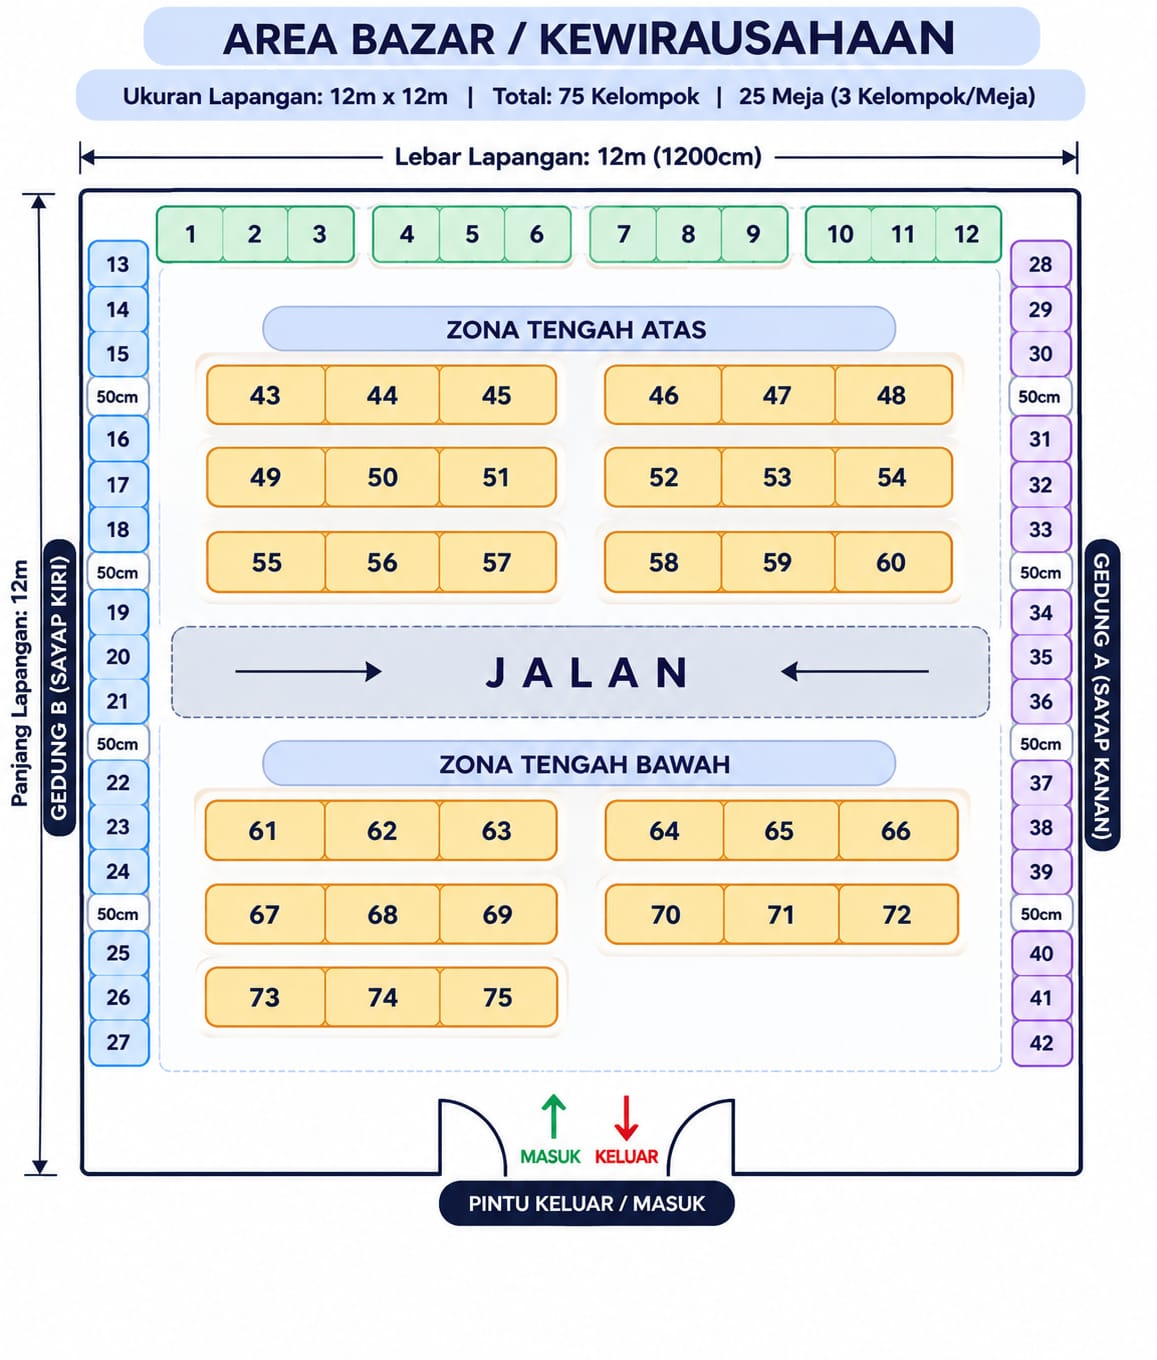
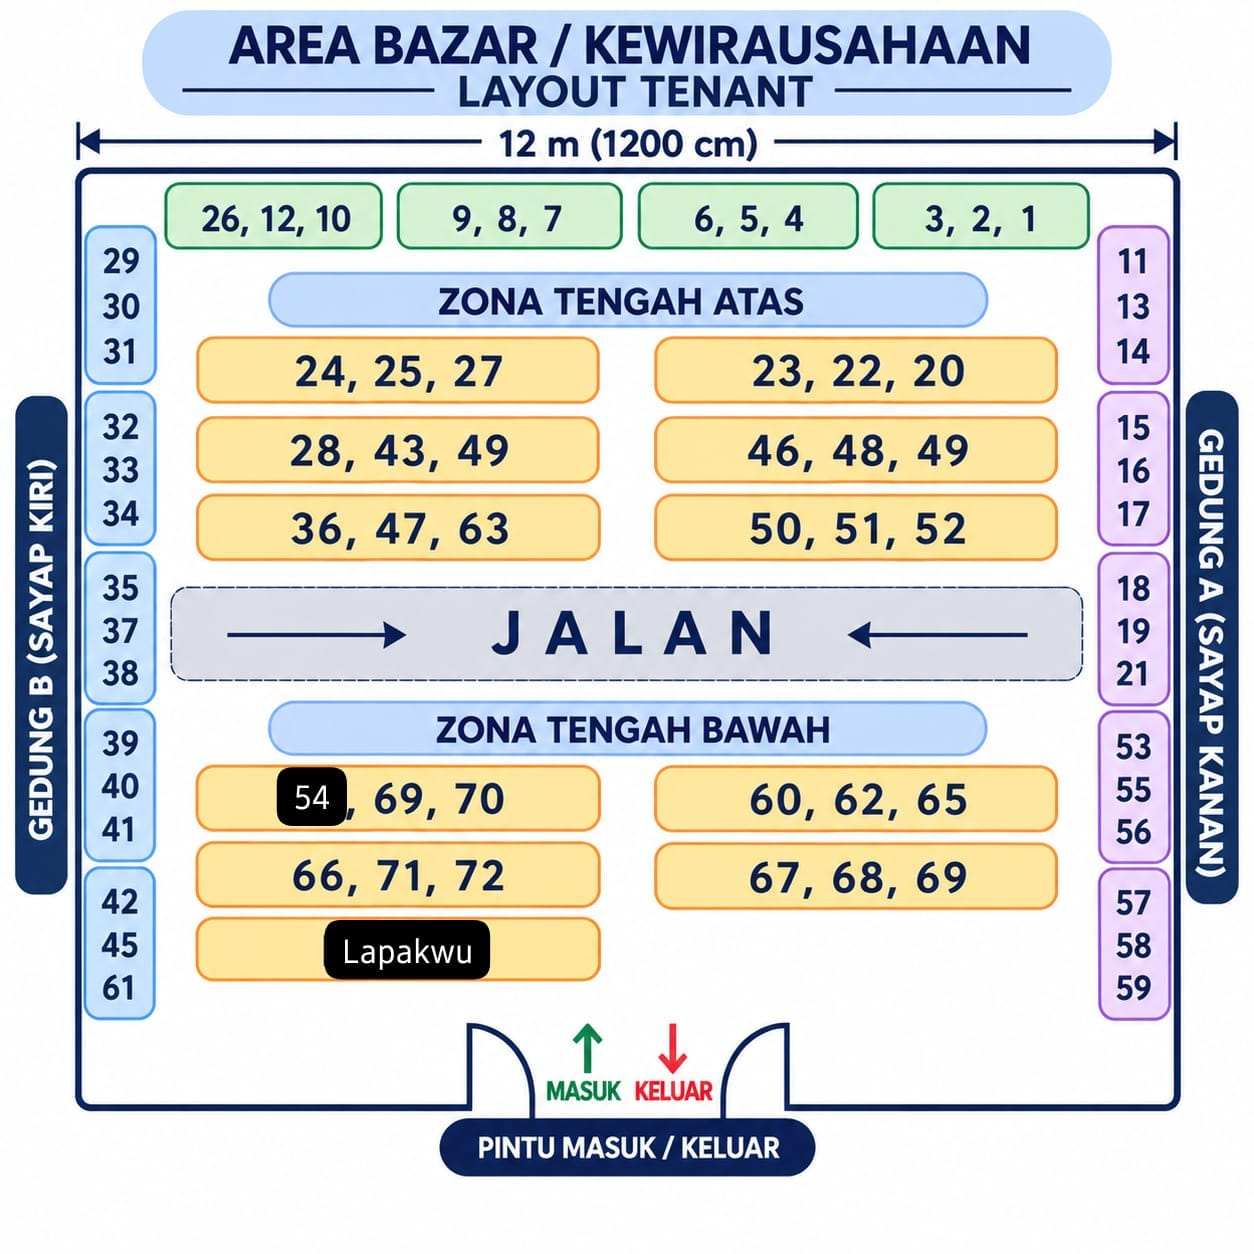
Separate stock adjustments from offline sales and update floor plan

diff --git a/src/app/mitra/page.jsx b/src/app/mitra/page.jsx
@@ -1,5 +1,5 @@
 'use client';
-import { useCallback, useEffect, useState } from 'react';
+import { useCallback, useEffect, useRef, useState } from 'react';
 import Link from 'next/link';
 import dynamic from 'next/dynamic';
 import { list, api, storage, ID, Query, BUCKET, rp, img } from '@/lib/aw';
@@ -34,6 +34,8 @@ export default function Lapak() {
   const [st, setSt] = useState(null);
   const [off, setOff] = useState(null);
   const [edit, setEdit] = useState({});
+  const prosesStok = useRef(false);
+  const [sibukStok, setSibukStok] = useState(false);
   const [layanan, setLayanan] = useState(null);
   const [simpanLayanan, setSimpanLayanan] = useState(false);
 
@@ -119,13 +121,47 @@ export default function Lapak() {
     } catch (er) { setMsg(er.message); }
   };
   const segarkanStat = () => list('rekap_penjualan', [Query.equal('id_mitra', akun.$id)]).then((rk) => setSt((s) => s && ({ ...s, jual: rk.find((x) => x.periode === bln())?.total_penjualan || 0 }))).catch(() => {});
-  // Tap +/−: angka stok berubah langsung di layar, server mencatat stok dan rekap. Gagal -> data dimuat ulang.
-  const ketuk = async (p, aksi) => {
-    if (aksi === 'jual' && p.stok < 1) return setMsg(`Stok ${p.nama} sudah habis.`);
-    setMsg(''); setPs((l) => l.map((x) => (x.$id === p.$id ? { ...x, stok: x.stok + (aksi === 'jual' ? -1 : 1) } : x)));
-    try { await api('/api/stok', { aksi, id: p.$id, jumlah: 1 }); if (aksi === 'jual') segarkanStat(); }
-    catch (e) { setMsg(e.message); muat(); }
+  const ketuk = async (p, aksi, jumlah = 1) => {
+    if (prosesStok.current) return;
+    prosesStok.current = true;
+    setSibukStok(true);
+    setMsg('');
+    try {
+      const { stok } = await api('/api/stok', { aksi, id: p.$id, jumlah });
+      setPs((daftar) => daftar.map((x) => x.$id === p.$id ? { ...x, stok } : x));
+      if (aksi === 'jual') {
+        await segarkanStat();
+        toast(`Penjualan offline ${jumlah} pcs ${p.nama} berhasil dicatat.`);
+      }
+    } catch (e) {
+      setMsg(e.message);
+    } finally {
+      prosesStok.current = false;
+      setSibukStok(false);
+    }
   };
+  const catatPenjualan = (p) => setModalInfo({
+    judul: 'Catat penjualan offline',
+    pesan: `${p.nama} · ${rp(p.harga)} per pcs · Stok tersedia ${p.stok} pcs.`,
+    tipe: 'input',
+    inputType: 'number',
+    inputLabel: 'Jumlah terjual (pcs)',
+    inputDefault: 1,
+    inputMin: 1,
+    inputMax: p.stok,
+    tombolOk: 'Catat penjualan',
+    onOk: async (nilai) => {
+      const jumlah = Number(nilai);
+      if (prosesStok.current || !Number.isSafeInteger(jumlah) || jumlah < 1 || jumlah > p.stok) return;
+      setBusyModal(true);
+      try {
+        await ketuk(p, 'jual', jumlah);
+      } finally {
+        setModalInfo(null);
+        setBusyModal(false);
+      }
+    },
+  });
   const koreksi = async (nama, id, baru) => {
     try { const r = await api('/api/stok', { aksi: 'koreksi', id, baru }); setMsg(`${r.dikembalikan} pcs ${nama} dikembalikan ke stok, rekap ikut dikoreksi.`); setEdit({}); await Promise.all([muat(), muatOff(), segarkanStat()]); }
     catch (e) { setMsg(e.message); }
@@ -326,6 +362,8 @@ export default function Lapak() {
           inputType={modalInfo.inputType}
           inputLabel={modalInfo.inputLabel}
           inputDefault={modalInfo.inputDefault}
+          inputMin={modalInfo.inputMin}
+          inputMax={modalInfo.inputMax}
           kategori={kategori}
           inputOpsional={modalInfo.inputOpsional}
           inputPlaceholder={modalInfo.inputPlaceholder}
@@ -407,6 +445,7 @@ export default function Lapak() {
           {ps?.length > 0 && <div className="field saring-daftar">
             <label htmlFor="cari-produk-mitra">Cari produk lapak</label>
             <input id="cari-produk-mitra" type="search" placeholder="Nama, kategori, atau varian" value={cariProduk} onChange={(e) => setCariProduk(e.target.value)} />
+            <small className="muted">Tombol − dan + hanya mengoreksi stok. Gunakan Catat penjualan offline saat produk terjual di lapak.</small>
           </div>}
           {ps?.length > 0 && !produkCocok.length && <p className="kosong">Produk tidak ditemukan.</p>}
           {produkCocok.map((p) => (
@@ -417,7 +456,8 @@ export default function Lapak() {
                     const harga = hargaAddOn(p, nama);
                     return harga > 0 ? `${nama} (+${rp(harga)})` : nama;
                   }).join(', ')}</small>}</div></div>
-              <div className="row"><span className="qty" role="group" aria-label={`Stok ${p.nama}`}><button className="qb" aria-label={`Kurangi stok ${p.nama} (terjual offline)`} disabled={p.stok < 1} onClick={() => ketuk(p, 'jual')}>−</button><b key={p.stok} className="qn" aria-live="polite">{p.stok}</b><button className="qb add" aria-label={`Tambah stok ${p.nama}`} onClick={() => ketuk(p, 'tambah')}>+</button></span>
+              <div className="row"><span className="qty" role="group" aria-label={`Koreksi stok ${p.nama}`}><button type="button" className="qb" aria-label={`Kurangi stok ${p.nama} tanpa mencatat penjualan`} disabled={sibukStok || p.stok < 1} onClick={() => ketuk(p, 'kurang')}>−</button><b key={p.stok} className="qn" aria-live="polite">{p.stok}</b><button type="button" className="qb add" aria-label={`Tambah stok ${p.nama}`} disabled={sibukStok} onClick={() => ketuk(p, 'tambah')}>+</button></span>
+                <button type="button" className="btn sm out" disabled={sibukStok || p.stok < 1} onClick={() => catatPenjualan(p)}>Catat penjualan offline</button>
                 <button className="link" onClick={() => harga(p)}>Ubah harga</button><button className="link" onClick={() => stok(p)}>Ubah stok</button><button className="link" onClick={() => ubahKategori(p)}>Ubah kategori</button><button className="link" onClick={() => ubahAddOn(p)}>Ubah add-on</button><button className="link" onClick={() => hapusP(p)}>Hapus</button></div>
             </div>))}
         </div></div>}
@@ -427,7 +467,7 @@ export default function Lapak() {
         const per = {};
         for (const l of off) { const o = (per[l.id_produk] ??= { id: l.id_produk, nama: l.nama_produk, jml: 0, uang: 0 }); o.jml += l.jumlah; o.uang += l.subtotal; }
         const baris = Object.values(per);
-        if (!baris.length) return <p className="kosong">Belum ada penjualan offline bulan ini. Tekan − di tab Produk dan stok setiap ada pembeli di lapak.</p>;
+        if (!baris.length) return <p className="kosong">Belum ada penjualan offline bulan ini. Gunakan tombol Catat penjualan offline di tab Produk dan stok.</p>;
         return (<>
           <div className="scroll"><table>
             <thead><tr><th>Produk</th><th>Terjual offline (bulan ini)</th><th>Pendapatan</th><th></th></tr></thead>
@@ -438,7 +478,7 @@ export default function Lapak() {
                 <td>{+v !== r.jml && <button className="btn sm sun" onClick={() => koreksi(r.nama, r.id, +v)}>Simpan koreksi</button>}</td></tr>); })}</tbody>
             <tfoot><tr><th>Total</th><th>{baris.reduce((a, r) => a + r.jml, 0)}</th><th>{rp(baris.reduce((a, r) => a + r.uang, 0))}</th><th></th></tr></tfoot>
           </table></div>
-          <p className="muted" style={{ marginTop: 10 }}><small>Salah pencet −? Turunkan angka terjual lalu simpan. Stok bertambah kembali dan rekap penjualan ikut dikoreksi otomatis. Angka hanya bisa diturunkan; untuk menambah penjualan, tekan −.</small></p>
+          <p className="muted" style={{ marginTop: 10 }}><small>Jika penjualan salah dicatat, turunkan jumlah terjual lalu simpan koreksi. Stok dikembalikan dan rekap penjualan diperbarui.</small></p>
         </>);
       })()}
 

diff --git a/src/components/DenahTenant.jsx b/src/components/DenahTenant.jsx
@@ -1,51 +1,56 @@
 'use client';
 
 import { useEffect, useId, useRef } from 'react';
-import { JUMLAH_TENANT } from '@/lib/tenant';
 
 const meja = [
-  ...[156, 373, 590, 806].map((x, i) => ({
-    awal: 1 + i * 3, x, y: 206, lebar: 66, tinggi: 56,
-  })),
-  ...[89, 1011].flatMap((x, sisi) =>
-    [241, 415, 590, 761, 931].map((y, i) => ({
-      awal: 13 + sisi * 15 + i * 3, x, y, lebar: 60, tinggi: 45, vertikal: true,
-    }))),
-  ...[365, 448, 532, 800, 884, 967].flatMap((y, baris) =>
-    (baris === 5 ? [205] : [205, 605]).map((x, kolom) => ({
-      awal: 43 + baris * 6 + kolom * 3, x, y, lebar: kolom ? 116 : 117, tinggi: 59,
-    }))),
+  { nomor: [26, 12, 10], x: [222, 278, 332], y: 217 },
+  { nomor: [9, 8, 7], x: [463, 509, 552], y: 217 },
+  { nomor: [6, 5, 4], x: [702, 751, 795], y: 217 },
+  { nomor: [3, 2, 1], x: [934, 984, 1028], y: 217 },
+  { nomor: [24, 25, 27], x: [319, 399, 478], y: 369 },
+  { nomor: [23, 22, 20], x: [776, 855, 937], y: 369 },
+  { nomor: [28, 43, 49], x: [313, 400, 483], y: 449 },
+  { nomor: [46, 48, 49], x: [771, 859, 943], y: 449 },
+  { nomor: [36, 47, 63], x: [313, 400, 484], y: 527 },
+  { nomor: [50, 51, 52], x: [775, 860, 941], y: 527 },
+  { nomor: [54, 69, 70], x: [312, 398, 480], y: 797 },
+  { nomor: [60, 62, 65], x: [774, 859, 941], y: 798 },
+  { nomor: [66, 71, 72], x: [315, 398, 479], y: 874 },
+  { nomor: [67, 68, 69], x: [776, 859, 941], y: 875 },
+  { nomor: [29, 30, 31, 32, 33, 34, 35, 37, 38, 39, 40, 41, 42, 45, 61],
+    x: 120, y: [259, 305, 350, 425, 468, 512, 586, 629, 671, 741, 784, 828, 900, 944, 987] },
+  { nomor: [11, 13, 14, 15, 16, 17, 18, 19, 21, 53, 55, 56, 57, 58, 59],
+    x: 1134, y: [259, 305, 350, 426, 469, 512, 586, 629, 672, 746, 788, 831, 900, 944, 987] },
 ];
 
-const posisiTenant = meja.flatMap(({ awal, x, y, lebar, tinggi, vertikal }) =>
-  [0, 1, 2].map((indeks) => ({
-    nomor: awal + indeks,
-    x: x + (vertikal ? 0 : indeks * lebar),
-    y: y + (vertikal ? indeks * tinggi : 0),
-    lebar,
-    tinggi,
+const posisiTenant = meja.flatMap(({ nomor, x, y }) =>
+  nomor.map((angka, indeks) => ({
+    nomor: angka,
+    x: Array.isArray(x) ? x[indeks] : x,
+    y: Array.isArray(y) ? y[indeks] : y,
   })));
 
 export function PetaTenant({ nomor }) {
   const deskripsi = useId();
-  const aktif = posisiTenant.find((stand) => stand.nomor === nomor);
+  const aktif = posisiTenant.filter((stand) => stand.nomor === nomor);
 
   return (
-    <svg viewBox="0 0 1157 1240" role="img" aria-labelledby={deskripsi} className="denah-svg">
+    <svg viewBox="0 0 1254 1190" role="img" aria-labelledby={deskripsi} className="denah-svg">
       <title id={deskripsi}>
-        {aktif ? 'Denah bazar. Tenant ' + nomor + ' disorot.' : 'Denah bazar dengan ' + JUMLAH_TENANT + ' tenant dan pintu di sisi bawah.'}
+        {aktif.length ? 'Denah bazar. Tenant ' + nomor + ' disorot.' : 'Denah bazar dan pintu masuk di sisi bawah.'}
       </title>
-      <image href="/denah-bazar.jpeg" width="1157" height="1360" />
-      {aktif && (
+      <image href="/denah-bazar.jpeg" width="1254" height="1254" />
+      {aktif.map(({ x, y }) => (
         <rect
           className="denah-sorotan"
-          x={aktif.x}
-          y={aktif.y}
-          width={aktif.lebar}
-          height={aktif.tinggi}
+          key={x + '-' + y}
+          x={x - 32}
+          y={y - 23}
+          width="64"
+          height="46"
           rx="9"
         />
-      )}
+      ))}
     </svg>
   );
 }
@@ -53,6 +58,7 @@ export function PetaTenant({ nomor }) {
 export default function DenahTenant({ nomor, nama, onClose }) {
   const dialog = useRef(null);
   const judul = useId();
+  const jumlahLokasi = posisiTenant.filter((stand) => stand.nomor === nomor).length;
 
   useEffect(() => {
     if (!dialog.current.open) dialog.current.showModal();
@@ -67,6 +73,8 @@ export default function DenahTenant({ nomor, nama, onClose }) {
         </div>
         <form method="dialog"><button className="btn sm out">Tutup</button></form>
       </header>
+      {jumlahLokasi === 0 && <p>Nomor tenant ini belum tercantum di denah.</p>}
+      {jumlahLokasi > 1 && <p>Nomor ini tercantum di dua lokasi. Cocokkan nama lapak saat mengambil pesanan.</p>}
       <div className="denah-peta">
         <PetaTenant nomor={nomor} />
       </div>

diff --git a/src/app/api/stok/route.js b/src/app/api/stok/route.js
@@ -5,7 +5,8 @@ import { hitungKomisi } from '@/lib/komisi';
 export const dynamic = 'force-dynamic';
 
 // Stok dan penjualan langsung di lapak (offline), dikelola mitra:
-//   tambah  : stok +jumlah (barang masuk, atau salah pencet "-")
+//   tambah  : stok +jumlah
+//   kurang  : stok -jumlah tanpa mencatat penjualan
 //   jual    : stok -jumlah, dicatat ke penjualan_offline, masuk rekap bulan berjalan
 //   koreksi : turunkan jumlah terjual offline bulan ini jadi `jumlah` (hanya boleh turun);
 //             catatan terbaru dihapus, stok dikembalikan, rekap berkurang otomatis
@@ -40,22 +41,23 @@ export async function POST(req) {
     const produkTerkunci = await getRow(db, 'produk', p.$id).catch(() => null);
     if (!produkTerkunci || produkTerkunci.diarsipkan || produkTerkunci.id_mitra !== u.$id) return err('Produk tidak ditemukan.', 404);
     p = produkTerkunci;
-    const jml = Math.floor(+b.jumlah);
+    const jml = Number(b.jumlah);
     const periode = periodeIni();
 
     if (b.aksi === 'tambah') {
       if (!Number.isSafeInteger(jml) || jml < 1) return err('Jumlah tidak valid.');
       await inc(db, 'produk', p.$id, 'stok', jml);
-      return Response.json({ ok: true });
+      return Response.json({ ok: true, stok: p.stok + jml });
     }
 
-    if (b.aksi === 'jual') {
+    if (b.aksi === 'kurang' || b.aksi === 'jual') {
       if (!Number.isSafeInteger(jml) || jml < 1) return err('Jumlah tidak valid.');
       if (p.stok < jml) return err('Stok ' + p.nama + ' tidak cukup.');
       await dec(db, 'produk', p.$id, 'stok', jml);
+      if (b.aksi === 'kurang') return Response.json({ ok: true, stok: p.stok - jml });
       await put(db, 'penjualan_offline', ID.unique(), { id_mitra: u.$id, id_produk: p.$id, nama_produk: p.nama, jumlah: jml, harga_satuan: p.harga, subtotal: jml * p.harga, waktu: new Date(), periode });
       await ubahRekap(db, await rekapId(db, u.$id, periode), jml * p.harga, jml);
-      return Response.json({ ok: true });
+      return Response.json({ ok: true, stok: p.stok - jml });
     }
 
     if (b.aksi === 'koreksi') {
@@ -63,7 +65,7 @@ export async function POST(req) {
       const log = await rows(db, 'penjualan_offline', [Query.equal('id_mitra', u.$id), Query.equal('id_produk', p.$id), Query.equal('periode', periode), Query.orderDesc('waktu'), Query.limit(500)]);
       if (log.length === 500) return err('Koreksi dibatasi pada 500 catatan terakhir. Hubungi admin untuk koreksi periode dengan lebih banyak catatan.');
       const sekarang = log.reduce((a, l) => a + l.jumlah, 0);
-      if (!(baru >= 0) || baru > sekarang) return err(`Isi angka 0 sampai ${sekarang}. Menambah penjualan lewat tombol −.`);
+      if (!(baru >= 0) || baru > sekarang) return err(`Isi angka 0 sampai ${sekarang}. Gunakan Catat penjualan offline untuk menambah penjualan.`);
       let sisa = sekarang - baru, uang = 0, kembali = 0;
       for (const l of log) { // hapus dari catatan terbaru; catatan terakhir dipotong kalau jumlahnya lebih besar dari sisa
         if (sisa <= 0) break;

diff --git a/src/components/Modal.jsx b/src/components/Modal.jsx
@@ -13,6 +13,7 @@ import InputVarian from '@/components/InputVarian';
  * - inputType: 'text' | 'number' | 'textarea'
  * - inputLabel: string
  * - inputDefault: string | number
+ * - inputMin, inputMax: batas untuk input angka
  * - inputPlaceholder: string
  * - tombolOk: string (default: 'Lanjutkan')
  * - tombolBatal: string (default: 'Batal')
@@ -28,6 +29,8 @@ export default function Modal({
   inputType = 'text',
   inputLabel = 'Keterangan',
   inputDefault = '',
+  inputMin,
+  inputMax,
   inputPlaceholder = '',
   inputOpsional = false,
   kategori,
@@ -40,6 +43,7 @@ export default function Modal({
 }) {
   const [val, setVal] = useState(inputDefault !== undefined ? inputDefault : '');
   const formId = useId();
+  const inputId = useId();
 
   useEffect(() => {
     setVal(inputDefault !== undefined ? inputDefault : '');
@@ -65,15 +69,15 @@ export default function Modal({
         {tipe === 'input' && (
           <form id={formId} onSubmit={handleSubmit} style={{ marginBottom: 16 }}>
             <div className="field">
-              {inputLabel && !['varian', 'kategori'].includes(inputType) && <label>{inputLabel}</label>}
+              {inputLabel && !['varian', 'kategori'].includes(inputType) && <label htmlFor={inputId}>{inputLabel}</label>}
               {inputType === 'kategori' ? (
                 <PilihKategoriProduk nilai={val} onUbah={setVal} nonaktif={busy} kategori={kategori} />
               ) : inputType === 'varian' ? (
                 <InputVarian judul={inputLabel} nilai={val} onUbah={setVal} nonaktif={busy} />
               ) : inputType === 'textarea' ? (
-                <textarea rows={3} required={!inputOpsional} placeholder={inputPlaceholder} value={val} onChange={(e) => setVal(e.target.value)} style={{ width: '100%', resize: 'vertical' }} autoFocus />
+                <textarea id={inputId} rows={3} required={!inputOpsional} placeholder={inputPlaceholder} value={val} onChange={(e) => setVal(e.target.value)} style={{ width: '100%', resize: 'vertical' }} autoFocus />
               ) : (
-                <input type={inputType} required={!inputOpsional} placeholder={inputPlaceholder} value={val} onChange={(e) => setVal(e.target.value)} style={{ width: '100%' }} autoFocus />
+                <input id={inputId} type={inputType} min={inputMin} max={inputMax} required={!inputOpsional} placeholder={inputPlaceholder} value={val} onChange={(e) => setVal(e.target.value)} style={{ width: '100%' }} autoFocus />
               )}
             </div>
           </form>

diff --git a/src/components/Rekap.jsx b/src/components/Rekap.jsx
@@ -157,7 +157,7 @@ export default function Rekap({ mitraId, nama = {} }) {
         <tfoot><tr><th colSpan={mitraId ? 1 : 2}>Total</th><th>{sum('jumlah_transaksi')}</th><th>{rp(sum('total_penjualan'))}</th><th>{rp(sum('total_komisi'))}</th><th>{rp(sum('total_offline'))}</th></tr></tfoot>
       </table></div>
     </div>
-    <p className="muted" style={{ marginTop: 10 }}><small>Penjualan offline (tombol − di Produk dan stok) ikut menambah total penjualan dan jumlah transaksi.</small></p>
+    <p className="muted" style={{ marginTop: 10 }}><small>Penjualan yang dicatat melalui Catat penjualan offline ikut menambah total penjualan dan jumlah transaksi.</small></p>
     {adaLanjutan && d.length > 0 && d.length % 500 === 0 && <div className="row" style={{ justifyContent: 'center' }}><button type="button" className="btn sm out" disabled={muatLanjutan} onClick={async () => { setMuatLanjutan(true); await muat(halaman + 500, true); setMuatLanjutan(false); }}>{muatLanjutan ? 'Memuat…' : 'Muat rekap berikutnya'}</button></div>}
   </section>);
 }
